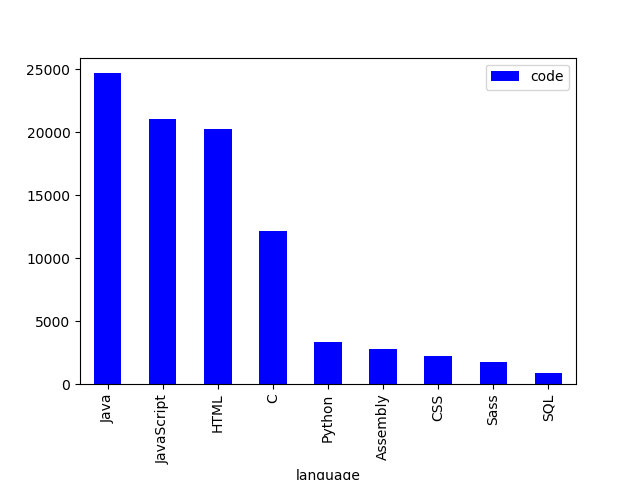
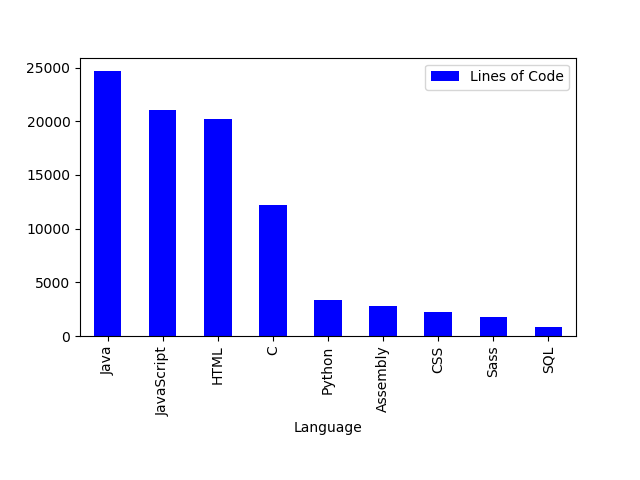
updated plot

diff --git a/makePlots.py b/makePlots.py
@@ -6,9 +6,11 @@ df = pd.read_csv("./count.csv")
 
 df = df.sort_values('code',ascending=False)
 
-df.plot(kind='bar',x='language',y='code', color="blue")
-
+df.plot(kind='bar',x='language',y='code',label='Lines of Code', color="blue")
+plt.xlabel('Language')
 # so labels are not cut off
-plt.gcf().subplots_adjust(bottom=0.20)
+plt.gcf().subplots_adjust(bottom=0.30)
 
+
+#plt.show()
 plt.savefig('plot.png')

diff --git a/README.md b/README.md
@@ -5,6 +5,6 @@ During my studies at ZHAW I was introduced to to many different languages. But w
 I was interested to see **how much** I had programmed with a given language. So I wrote a python script that cloned all my repositories from the school [GitHub Enterprise](!https://github.engineering.zhaw.ch/) and then counted the lines of code.
 I then took that data and ploted it.
 
-Output: 07.02.2019
+Output: 07.03.2019
 
 ![Plot](plot.png)
